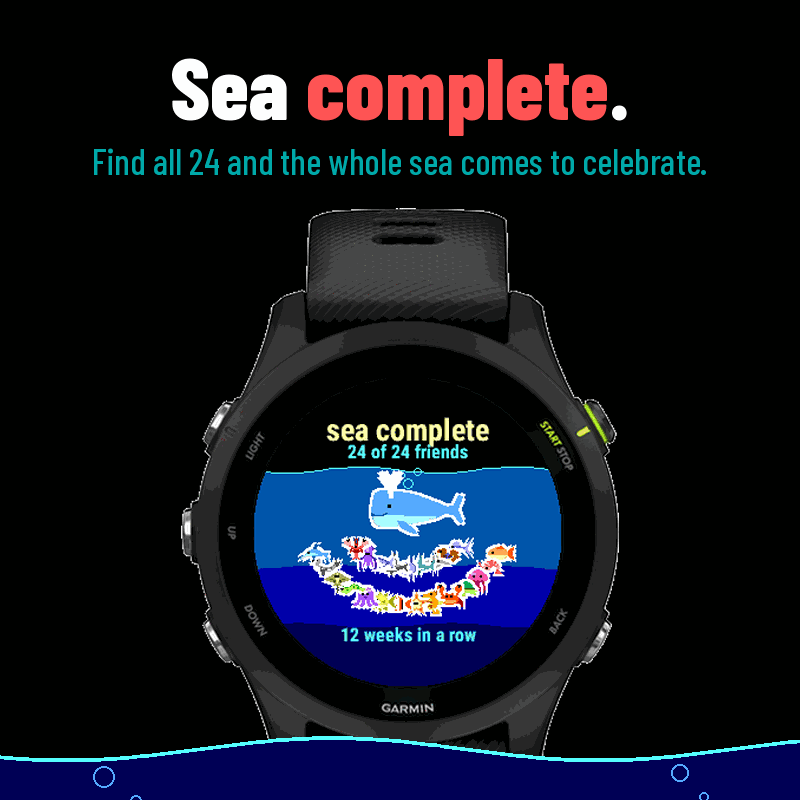
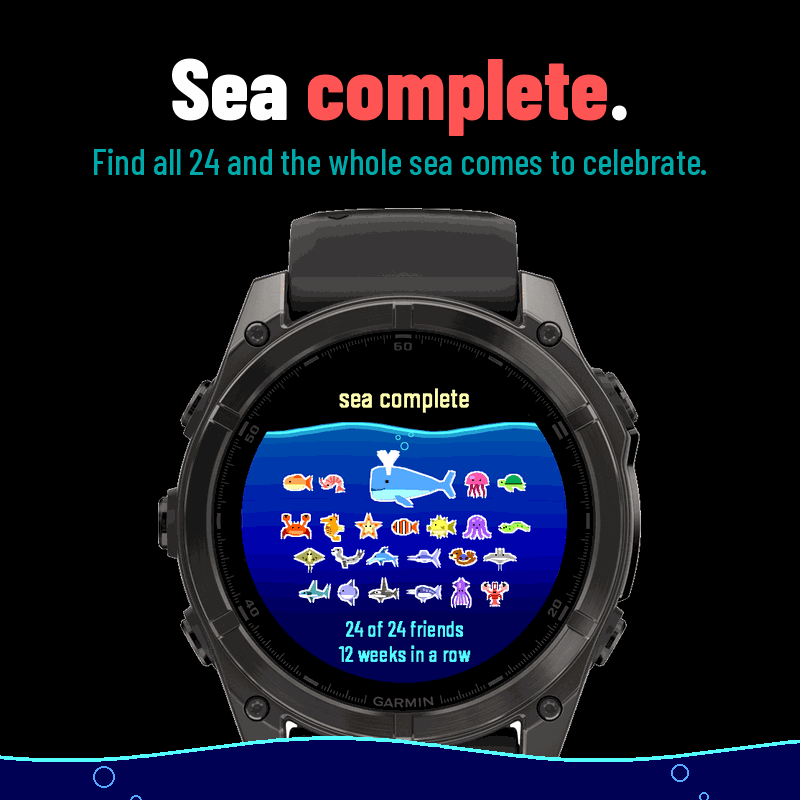
Gijs: winkelkaart sea complete uit de groepsfoto op fenix 8 (scène 25 van 7209317)
Claude-Session: https://claude.ai/code/session_01RMWUyhFUerYzQHBR9LJ4Q6

Changed region(s): [[0.1875, 0.25, 0.8125, 0.9688]]

diff --git a/producten/garmin-adem/winkel/maak_winkel_v3.py b/producten/garmin-adem/winkel/maak_winkel_v3.py
@@ -49,9 +49,8 @@ def alles(bron, uitmap, groot="fenix847mm", klein="fr255"):
     p = lambda h, k: os.path.join(bron, f"{h}-scene{k}.png")
     poster(p(groot, 2), p(klein, 4), os.path.join(uitmap, "0-poster-proef.png"))
     for k, naam, kop, koraal, onder in KAARTEN:
-        # Sea complete van het kleine horloge: op 454 bouwt het feest in 120 beurten op (keuring bouw 5 punt 3),
-        # op 260 staat het binnen de opnametijd helemaal.
-        h = klein if k == 25 else groot
+        # Sea complete als groepsfoto (blad v10) staat sinds 7209317 ook op 454 binnen de opnametijd.
+        h = groot
         if os.path.exists(p(h, k)):
             m.kaart(p(h, k), kop, koraal, onder, os.path.join(uitmap, naam))
         else:
